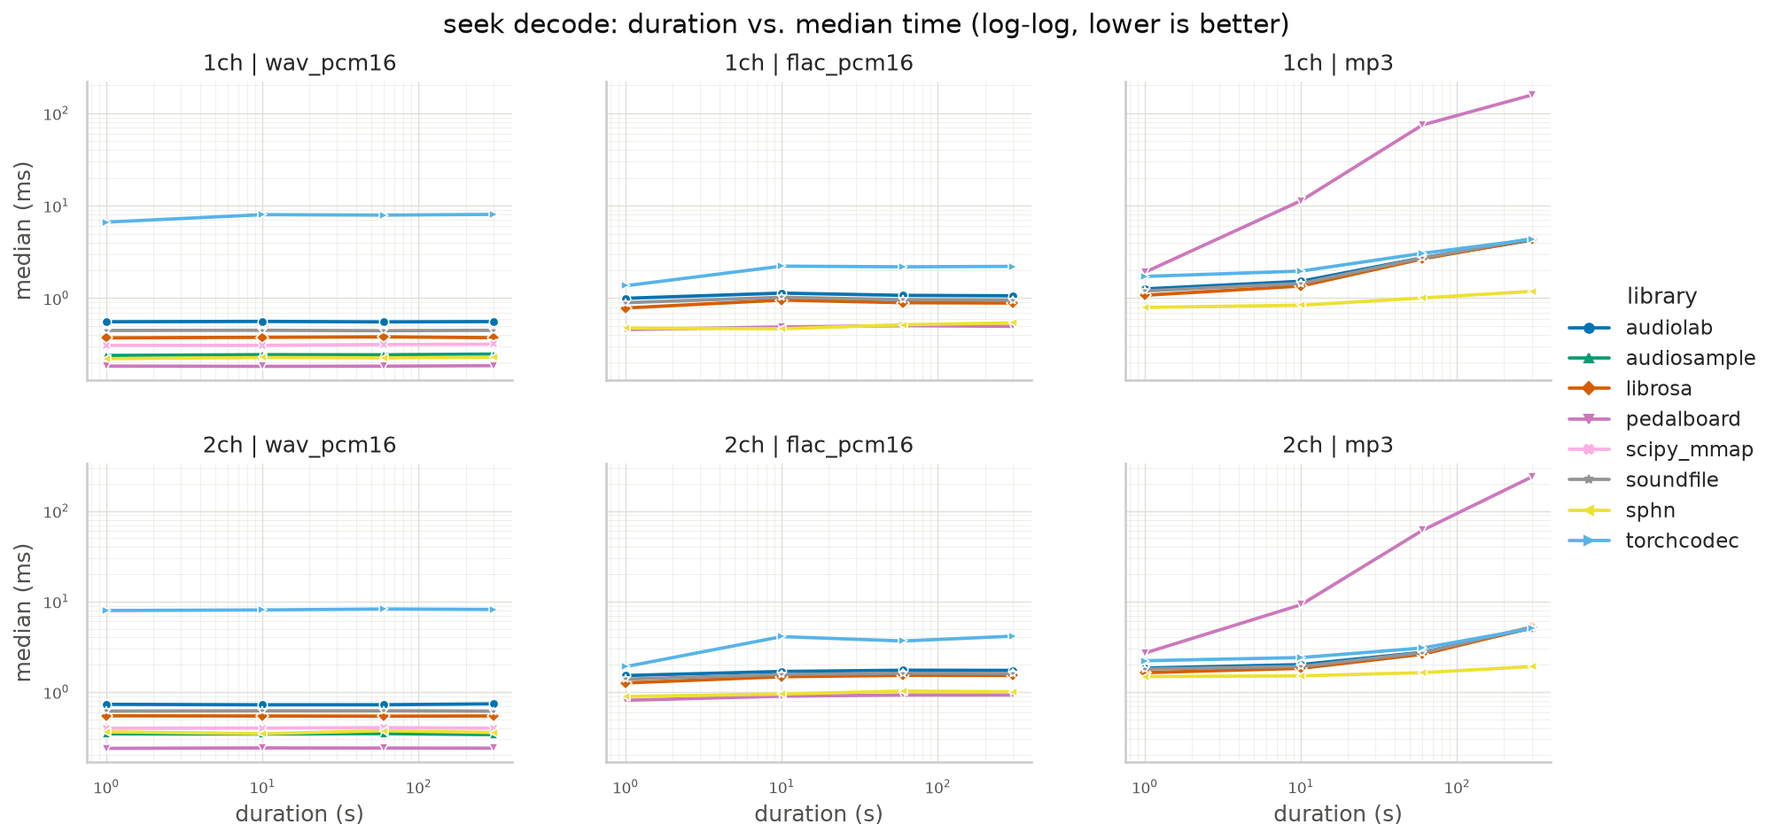
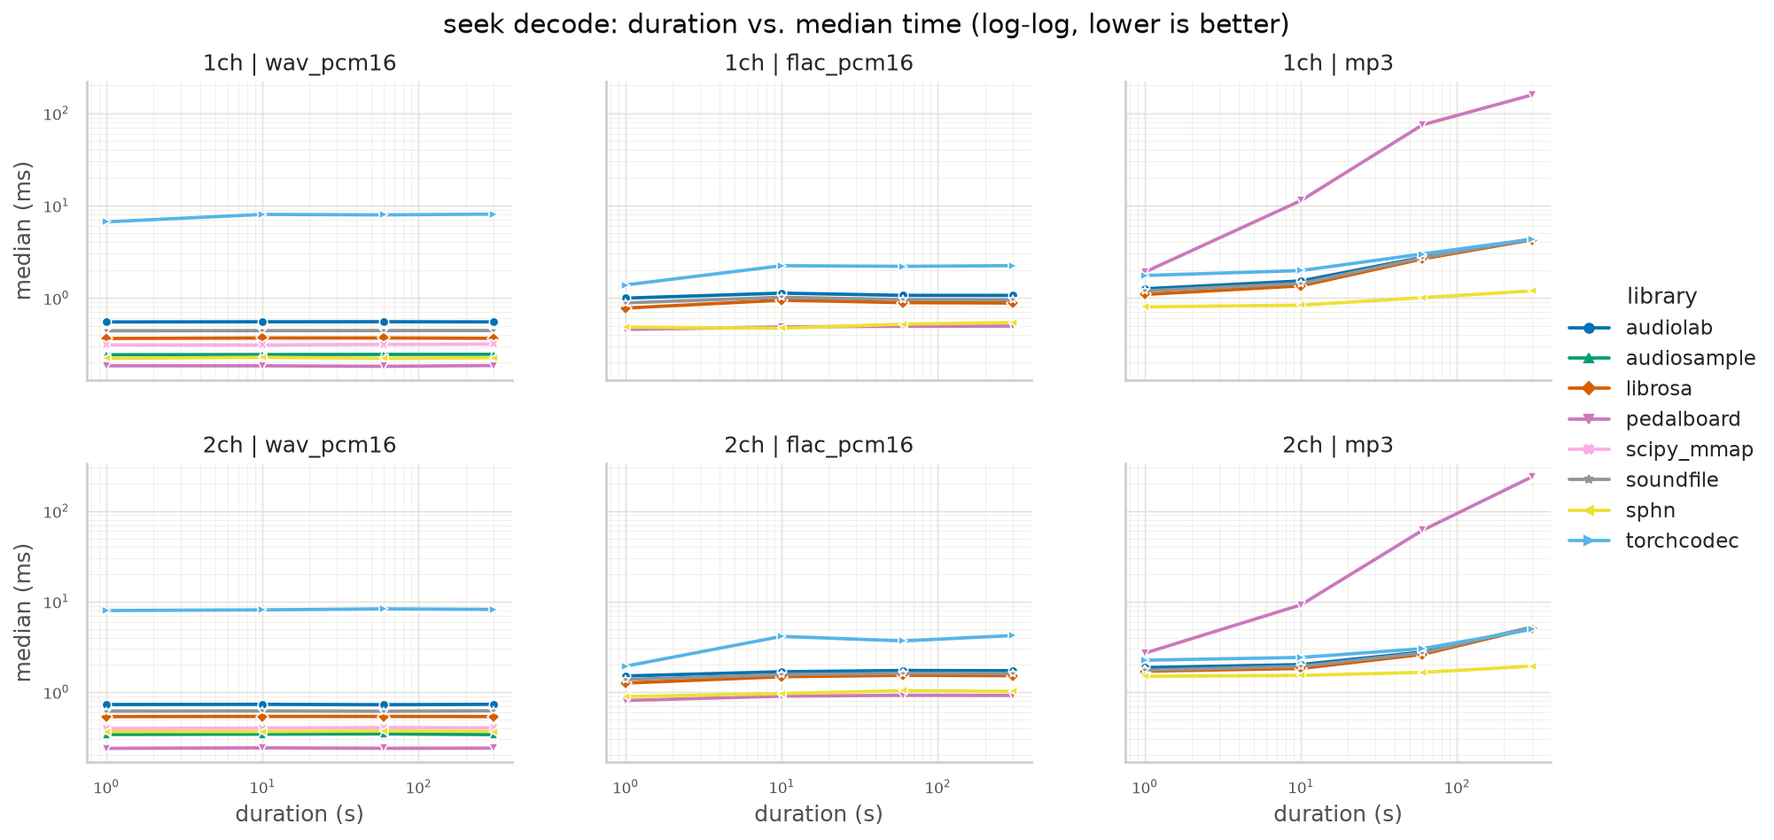
updated plots

diff --git a/results/report.md b/results/report.md
@@ -34,79 +34,79 @@ Timings below are wall-clock, warm-page-cache decodes of a locally generated **s
 
 | Duration (s) | Channels | soundfile | librosa | scipy | scipy_mmap | audioread | pedalboard | torchcodec | audiolab | audiosample | sphn |
 | --- | --- | --- | --- | --- | --- | --- | --- | --- | --- | --- | --- |
-| 1 | 1 | 0.37 ms [0.36–0.41] | 0.37 ms [0.36–0.38] | 0.23 ms [0.23–0.25] | 0.30 ms [0.29–0.32] | 0.40 ms [0.38–0.41] | 0.18 ms [0.18–0.20] | 6.67 ms [6.62–6.84] | 0.58 ms [0.57–0.60] | 0.22 ms [0.22–0.23] | 0.24 ms [0.24–0.25] |
-| 1 | 2 | 0.55 ms [0.53–0.72] | 0.54 ms [0.53–0.55] | 0.33 ms [0.32–0.34] | 0.39 ms [0.38–0.40] | 0.54 ms [0.52–0.58] | 0.23 ms [0.23–0.24] | 7.91 ms [7.80–8.05] | 0.76 ms [0.72–0.79] | 0.32 ms [0.32–0.33] | 0.39 ms [0.38–0.40] |
-| 10 | 1 | 1.43 ms [1.39–1.47] | 1.44 ms [1.40–1.46] | 0.77 ms [0.76–0.81] | 0.78 ms [0.76–0.83] | 2.15 ms [2.12–2.21] | 0.65 ms [0.64–0.67] | 9.62 ms [9.52–9.72] | 2.05 ms [2.01–2.10] | 0.62 ms [0.61–0.64] | 1.66 ms [1.65–1.68] |
-| 10 | 2 | 3.29 ms [3.27–3.36] | 3.31 ms [3.21–3.36] | 1.76 ms [1.75–1.82] | 1.77 ms [1.75–1.82] | 3.73 ms [3.71–3.76] | 1.25 ms [1.24–1.28] | 11.24 ms [11.15–11.41] | 3.80 ms [3.75–3.87] | 1.58 ms [1.57–1.61] | 3.00 ms [2.99–3.10] |
-| 60 | 1 | 7.21 ms [7.14–7.29] | 7.27 ms [7.15–7.38] | 3.76 ms [3.68–3.87] | 3.66 ms [3.64–3.76] | 12.05 ms [11.97–12.12] | 3.44 ms [3.43–3.56] | 18.26 ms [18.05–18.49] | 9.59 ms [9.53–9.70] | 2.90 ms [2.89–2.95] | 9.51 ms [9.48–9.54] |
-| 60 | 2 | 18.93 ms [18.82–19.11] | 19.07 ms [18.86–19.25] | 10.96 ms [10.74–11.06] | 10.76 ms [10.46–10.82] | 22.28 ms [22.21–22.35] | 7.03 ms [6.92–7.27] | 29.04 ms [28.85–29.98] | 19.61 ms [19.44–19.75] | 8.88 ms [8.85–8.93] | 19.37 ms [19.26–19.49] |
-| 300 | 1 | 43.79 ms [43.36–44.18] | 42.94 ms [42.81–43.22] | 31.73 ms [31.67–31.86] | 28.15 ms [28.10–28.30] | 72.79 ms [72.50–73.16] | 24.62 ms [24.13–24.82] | 86.97 ms [78.33–100.90] | 53.61 ms [52.81–53.91] | 20.40 ms [19.93–20.66] | 78.93 ms [78.67–79.12] |
-| 300 | 2 | 125.49 ms [125.12–125.78] | 125.29 ms [124.78–125.97] | 108.14 ms [107.82–108.62] | 95.08 ms [94.88–97.00] | 168.24 ms [167.83–169.30] | 51.45 ms [51.32–51.58] | 154.27 ms [149.14–166.33] | 111.29 ms [110.72–111.67] | 98.58 ms [98.21–98.87] | 150.91 ms [150.53–151.27] |
+| 1 | 1 | 0.37 ms [0.35–0.61] | 0.36 ms [0.36–0.41] | 0.23 ms [0.22–0.26] | 0.30 ms [0.30–0.36] | 0.39 ms [0.38–0.39] | 0.18 ms [0.18–0.21] | 6.69 ms [6.59–6.77] | 0.57 ms [0.56–0.60] | 0.23 ms [0.22–0.23] | 0.25 ms [0.24–0.26] |
+| 1 | 2 | 0.54 ms [0.52–0.77] | 0.53 ms [0.52–0.55] | 0.32 ms [0.32–0.36] | 0.39 ms [0.38–0.41] | 0.53 ms [0.51–0.57] | 0.23 ms [0.23–0.25] | 7.98 ms [7.82–8.15] | 0.76 ms [0.72–0.77] | 0.32 ms [0.31–0.34] | 0.39 ms [0.38–0.40] |
+| 10 | 1 | 1.42 ms [1.38–1.47] | 1.42 ms [1.39–1.46] | 0.75 ms [0.73–0.76] | 0.77 ms [0.75–0.80] | 2.16 ms [2.14–2.20] | 0.67 ms [0.66–0.68] | 9.61 ms [9.48–9.81] | 2.02 ms [1.98–2.09] | 0.62 ms [0.61–0.65] | 1.68 ms [1.67–1.72] |
+| 10 | 2 | 3.29 ms [3.23–3.39] | 3.26 ms [3.20–3.30] | 1.72 ms [1.70–1.78] | 1.78 ms [1.77–1.83] | 3.72 ms [3.69–4.64] | 1.23 ms [1.22–1.31] | 11.49 ms [11.39–11.70] | 3.76 ms [3.73–3.90] | 1.59 ms [1.57–1.65] | 2.95 ms [2.93–3.09] |
+| 60 | 1 | 7.19 ms [7.08–7.86] | 7.17 ms [7.07–7.22] | 3.74 ms [3.69–3.85] | 3.67 ms [3.61–3.70] | 12.12 ms [12.04–12.27] | 3.43 ms [3.41–3.56] | 18.58 ms [17.86–19.02] | 9.50 ms [9.36–9.76] | 2.87 ms [2.82–2.95] | 10.07 ms [10.01–10.22] |
+| 60 | 2 | 18.90 ms [18.72–19.14] | 18.99 ms [18.79–19.16] | 10.90 ms [10.70–11.16] | 10.78 ms [10.55–10.84] | 22.22 ms [21.94–22.37] | 7.04 ms [6.86–7.31] | 29.35 ms [29.04–29.72] | 19.63 ms [19.49–19.76] | 9.18 ms [9.13–9.23] | 19.37 ms [19.25–19.55] |
+| 300 | 1 | 43.88 ms [43.47–44.20] | 42.77 ms [42.53–43.27] | 31.63 ms [31.38–31.81] | 28.09 ms [28.02–28.28] | 72.80 ms [72.49–73.04] | 25.47 ms [25.06–25.63] | 83.58 ms [74.85–103.20] | 54.03 ms [53.30–54.82] | 20.41 ms [19.95–20.62] | 76.21 ms [76.06–77.44] |
+| 300 | 2 | 125.28 ms [124.31–125.92] | 124.82 ms [123.99–125.32] | 107.95 ms [107.76–108.23] | 94.93 ms [94.68–96.26] | 166.96 ms [166.40–167.47] | 51.51 ms [51.33–53.25] | 151.74 ms [149.88–175.05] | 111.42 ms [110.28–112.13] | 98.73 ms [98.42–99.24] | 145.31 ms [144.85–145.90] |
 
 ## wav_pcm16 / seek
 
 | Duration (s) | Channels | soundfile | librosa | scipy | scipy_mmap | audioread | pedalboard | torchcodec | audiolab | audiosample | sphn |
 | --- | --- | --- | --- | --- | --- | --- | --- | --- | --- | --- | --- |
-| 1 | 1 | 0.45 ms [0.43–0.56] | 0.37 ms [0.35–0.39] | unsupported | 0.31 ms [0.30–0.31] | unsupported | 0.18 ms [0.18–0.19] | 6.65 ms [6.52–6.74] | 0.56 ms [0.54–0.57] | 0.24 ms [0.24–0.24] | 0.22 ms [0.22–0.23] |
-| 1 | 2 | 0.61 ms [0.60–0.64] | 0.54 ms [0.54–0.56] | unsupported | 0.40 ms [0.39–0.42] | unsupported | 0.24 ms [0.23–0.25] | 7.95 ms [7.85–8.14] | 0.73 ms [0.72–0.77] | 0.34 ms [0.33–0.35] | 0.36 ms [0.35–0.41] |
-| 10 | 1 | 0.45 ms [0.43–0.54] | 0.38 ms [0.36–0.38] | unsupported | 0.31 ms [0.31–0.33] | unsupported | 0.18 ms [0.18–0.19] | 8.00 ms [7.87–8.12] | 0.56 ms [0.55–0.58] | 0.24 ms [0.24–0.25] | 0.23 ms [0.23–0.24] |
-| 10 | 2 | 0.62 ms [0.60–0.64] | 0.54 ms [0.53–0.56] | unsupported | 0.40 ms [0.38–0.42] | unsupported | 0.24 ms [0.24–0.25] | 8.07 ms [7.97–8.16] | 0.72 ms [0.71–0.74] | 0.34 ms [0.33–0.35] | 0.35 ms [0.34–0.35] |
-| 60 | 1 | 0.44 ms [0.44–0.59] | 0.38 ms [0.36–0.39] | unsupported | 0.32 ms [0.30–0.33] | unsupported | 0.18 ms [0.18–0.19] | 7.91 ms [7.81–8.03] | 0.55 ms [0.55–0.56] | 0.24 ms [0.24–0.25] | 0.23 ms [0.22–0.23] |
-| 60 | 2 | 0.62 ms [0.59–0.63] | 0.54 ms [0.53–0.55] | unsupported | 0.40 ms [0.39–0.41] | unsupported | 0.24 ms [0.24–0.25] | 8.26 ms [8.20–8.32] | 0.72 ms [0.70–0.76] | 0.35 ms [0.34–0.35] | 0.37 ms [0.36–0.44] |
-| 300 | 1 | 0.45 ms [0.44–0.47] | 0.37 ms [0.36–0.39] | unsupported | 0.32 ms [0.31–0.33] | unsupported | 0.19 ms [0.18–0.19] | 8.05 ms [7.99–8.11] | 0.56 ms [0.53–0.60] | 0.25 ms [0.25–0.27] | 0.23 ms [0.22–0.24] |
-| 300 | 2 | 0.61 ms [0.61–0.63] | 0.54 ms [0.54–0.56] | unsupported | 0.40 ms [0.39–0.42] | unsupported | 0.24 ms [0.23–0.24] | 8.17 ms [8.04–8.23] | 0.74 ms [0.70–0.75] | 0.34 ms [0.32–0.35] | 0.36 ms [0.35–0.36] |
+| 1 | 1 | 0.44 ms [0.43–0.58] | 0.36 ms [0.35–0.38] | unsupported | 0.31 ms [0.30–0.32] | unsupported | 0.18 ms [0.18–0.26] | 6.66 ms [6.58–6.78] | 0.55 ms [0.53–0.57] | 0.24 ms [0.24–0.26] | 0.22 ms [0.22–0.23] |
+| 1 | 2 | 0.62 ms [0.60–0.71] | 0.53 ms [0.52–0.55] | unsupported | 0.39 ms [0.38–0.41] | unsupported | 0.24 ms [0.23–0.24] | 7.95 ms [7.73–8.05] | 0.73 ms [0.71–0.77] | 0.34 ms [0.33–0.35] | 0.36 ms [0.35–0.37] |
+| 10 | 1 | 0.44 ms [0.43–0.57] | 0.37 ms [0.36–0.38] | unsupported | 0.31 ms [0.30–0.33] | unsupported | 0.18 ms [0.18–0.19] | 8.02 ms [7.88–8.14] | 0.55 ms [0.53–0.57] | 0.24 ms [0.24–0.26] | 0.23 ms [0.22–0.24] |
+| 10 | 2 | 0.62 ms [0.60–0.70] | 0.54 ms [0.52–0.56] | unsupported | 0.40 ms [0.38–0.42] | unsupported | 0.24 ms [0.24–0.25] | 8.09 ms [7.98–8.16] | 0.73 ms [0.69–0.76] | 0.34 ms [0.34–0.35] | 0.37 ms [0.36–0.37] |
+| 60 | 1 | 0.44 ms [0.42–0.45] | 0.37 ms [0.36–0.38] | unsupported | 0.31 ms [0.30–0.34] | unsupported | 0.18 ms [0.18–0.19] | 7.93 ms [7.76–8.11] | 0.55 ms [0.54–0.58] | 0.24 ms [0.24–0.26] | 0.22 ms [0.22–0.23] |
+| 60 | 2 | 0.61 ms [0.59–0.68] | 0.54 ms [0.52–0.56] | unsupported | 0.40 ms [0.40–0.41] | unsupported | 0.24 ms [0.23–0.24] | 8.30 ms [8.14–8.34] | 0.72 ms [0.70–0.75] | 0.34 ms [0.34–0.47] | 0.37 ms [0.37–0.40] |
+| 300 | 1 | 0.44 ms [0.43–0.47] | 0.37 ms [0.35–0.38] | unsupported | 0.32 ms [0.31–0.41] | unsupported | 0.19 ms [0.18–0.19] | 8.07 ms [7.98–8.14] | 0.55 ms [0.53–0.57] | 0.25 ms [0.24–0.26] | 0.23 ms [0.22–0.23] |
+| 300 | 2 | 0.62 ms [0.60–0.63] | 0.54 ms [0.52–0.55] | unsupported | 0.40 ms [0.38–0.42] | unsupported | 0.24 ms [0.23–0.25] | 8.19 ms [8.09–11.20] | 0.73 ms [0.70–0.75] | 0.34 ms [0.33–0.35] | 0.37 ms [0.36–0.42] |
 
 ## flac_pcm16 / full
 
 | Duration (s) | Channels | soundfile | librosa | scipy | scipy_mmap | audioread | pedalboard | torchcodec | audiolab | audiosample | sphn |
 | --- | --- | --- | --- | --- | --- | --- | --- | --- | --- | --- | --- |
-| 1 | 1 | 0.81 ms [0.81–0.84] | 0.78 ms [0.77–0.79] | unsupported | unsupported | 18.02 ms [17.12–18.80] | 0.45 ms [0.45–0.46] | 1.39 ms [1.35–1.41] | 1.03 ms [1.02–1.04] | unsupported | 0.50 ms [0.49–0.51] |
-| 1 | 2 | 1.31 ms [1.30–1.60] | 1.26 ms [1.25–1.27] | unsupported | unsupported | 18.50 ms [17.86–19.70] | 0.80 ms [0.79–0.81] | 1.92 ms [1.87–1.93] | 1.55 ms [1.51–1.56] | unsupported | 0.92 ms [0.90–0.92] |
-| 10 | 1 | 5.36 ms [5.33–5.41] | 5.36 ms [5.33–5.40] | unsupported | unsupported | 21.54 ms [20.66–22.48] | 3.31 ms [3.27–3.36] | 7.04 ms [7.02–7.11] | 6.06 ms [6.03–6.09] | unsupported | 3.86 ms [3.84–3.88] |
-| 10 | 2 | 10.52 ms [10.47–10.79] | 10.45 ms [10.42–10.51] | unsupported | unsupported | 25.75 ms [24.49–26.48] | 6.89 ms [6.87–7.01] | 12.09 ms [12.05–12.17] | 11.09 ms [11.07–11.11] | unsupported | 7.68 ms [7.67–7.88] |
-| 60 | 1 | 30.72 ms [30.66–30.98] | 30.73 ms [30.64–31.02] | unsupported | unsupported | 34.82 ms [33.19–37.59] | 19.39 ms [19.30–19.50] | 37.67 ms [37.54–37.86] | 33.43 ms [33.28–33.50] | unsupported | 22.41 ms [22.36–22.50] |
-| 60 | 2 | 62.08 ms [61.94–62.21] | 62.04 ms [61.89–62.28] | unsupported | unsupported | 51.00 ms [49.76–52.40] | 40.82 ms [40.63–41.10] | 67.39 ms [67.28–67.69] | 63.23 ms [63.16–63.49] | unsupported | 47.25 ms [47.21–47.37] |
-| 300 | 1 | 161.29 ms [160.01–161.59] | 160.71 ms [159.83–161.84] | unsupported | unsupported | 109.47 ms [107.12–110.97] | 104.69 ms [104.43–105.07] | 197.89 ms [197.21–198.05] | 172.76 ms [172.60–173.32] | unsupported | 144.83 ms [144.76–145.35] |
-| 300 | 2 | 340.71 ms [340.22–341.04] | 340.72 ms [340.24–341.14] | unsupported | unsupported | 230.96 ms [228.12–233.29] | 221.15 ms [220.64–221.62] | 364.86 ms [364.24–365.40] | 328.66 ms [328.45–329.13] | unsupported | 291.70 ms [291.45–292.51] |
+| 1 | 1 | 0.81 ms [0.80–0.84] | 0.78 ms [0.76–0.87] | unsupported | unsupported | 17.84 ms [16.87–19.23] | 0.45 ms [0.44–0.46] | 1.40 ms [1.36–1.44] | 1.02 ms [1.00–1.05] | unsupported | 0.50 ms [0.49–0.52] |
+| 1 | 2 | 1.30 ms [1.29–1.59] | 1.26 ms [1.25–1.32] | unsupported | unsupported | 18.50 ms [17.59–19.42] | 0.80 ms [0.79–0.81] | 1.95 ms [1.89–2.02] | 1.53 ms [1.50–1.60] | unsupported | 0.92 ms [0.90–0.96] |
+| 10 | 1 | 5.38 ms [5.34–5.46] | 5.35 ms [5.32–5.46] | unsupported | unsupported | 21.49 ms [20.30–22.77] | 3.28 ms [3.26–3.33] | 6.94 ms [6.91–7.07] | 6.08 ms [6.04–6.14] | unsupported | 3.82 ms [3.79–3.85] |
+| 10 | 2 | 10.52 ms [10.49–10.59] | 10.47 ms [10.42–10.57] | unsupported | unsupported | 24.92 ms [23.93–26.13] | 6.87 ms [6.83–6.92] | 12.07 ms [12.03–12.23] | 11.06 ms [11.04–11.19] | unsupported | 7.73 ms [7.70–7.81] |
+| 60 | 1 | 30.86 ms [30.77–31.38] | 30.80 ms [30.64–30.96] | unsupported | unsupported | 34.64 ms [33.35–36.20] | 19.27 ms [19.18–19.43] | 38.10 ms [37.50–38.30] | 33.37 ms [33.33–33.53] | unsupported | 23.02 ms [22.96–23.13] |
+| 60 | 2 | 62.15 ms [62.03–62.24] | 62.21 ms [62.02–62.48] | unsupported | unsupported | 51.01 ms [49.48–53.10] | 40.95 ms [40.74–41.18] | 67.47 ms [67.00–67.62] | 63.18 ms [63.06–63.71] | unsupported | 47.47 ms [47.30–47.67] |
+| 300 | 1 | 161.16 ms [160.87–161.67] | 160.99 ms [160.58–161.34] | unsupported | unsupported | 109.77 ms [107.82–111.63] | 104.67 ms [104.29–105.21] | 211.47 ms [200.01–223.55] | 174.26 ms [173.81–174.49] | unsupported | 146.00 ms [145.80–146.54] |
+| 300 | 2 | 339.98 ms [339.46–340.36] | 340.98 ms [340.67–342.94] | unsupported | unsupported | 228.05 ms [226.11–234.70] | 221.33 ms [220.61–222.75] | 390.50 ms [389.34–393.92] | 329.03 ms [328.75–329.48] | unsupported | 289.95 ms [289.36–292.53] |
 
 ## flac_pcm16 / seek
 
 | Duration (s) | Channels | soundfile | librosa | scipy | scipy_mmap | audioread | pedalboard | torchcodec | audiolab | audiosample | sphn |
 | --- | --- | --- | --- | --- | --- | --- | --- | --- | --- | --- | --- |
-| 1 | 1 | 0.89 ms [0.88–0.92] | 0.78 ms [0.77–0.88] | unsupported | unsupported | unsupported | 0.46 ms [0.45–0.46] | 1.36 ms [1.35–1.47] | 1.00 ms [0.97–1.01] | unsupported | 0.47 ms [0.47–0.49] |
-| 1 | 2 | 1.39 ms [1.36–1.50] | 1.26 ms [1.24–1.26] | unsupported | unsupported | unsupported | 0.81 ms [0.80–0.82] | 1.90 ms [1.86–1.93] | 1.52 ms [1.49–1.53] | unsupported | 0.89 ms [0.88–0.90] |
-| 10 | 1 | 1.02 ms [1.01–1.03] | 0.95 ms [0.94–0.96] | unsupported | unsupported | unsupported | 0.49 ms [0.48–0.50] | 2.22 ms [2.18–2.23] | 1.13 ms [1.11–1.14] | unsupported | 0.47 ms [0.46–0.47] |
-| 10 | 2 | 1.56 ms [1.55–1.58] | 1.47 ms [1.47–1.49] | unsupported | unsupported | unsupported | 0.90 ms [0.88–0.90] | 4.09 ms [4.04–4.12] | 1.69 ms [1.65–1.71] | unsupported | 0.95 ms [0.95–0.96] |
-| 60 | 1 | 0.96 ms [0.95–0.99] | 0.89 ms [0.88–0.90] | unsupported | unsupported | unsupported | 0.50 ms [0.50–0.54] | 2.18 ms [2.13–2.20] | 1.07 ms [1.07–1.09] | unsupported | 0.52 ms [0.51–0.53] |
-| 60 | 2 | 1.61 ms [1.58–1.62] | 1.53 ms [1.51–1.55] | unsupported | unsupported | unsupported | 0.93 ms [0.91–0.94] | 3.66 ms [3.60–3.70] | 1.74 ms [1.69–1.75] | unsupported | 1.02 ms [1.01–1.04] |
-| 300 | 1 | 0.95 ms [0.94–0.98] | 0.88 ms [0.88–0.90] | unsupported | unsupported | unsupported | 0.50 ms [0.49–0.50] | 2.21 ms [2.16–2.25] | 1.06 ms [1.04–1.09] | unsupported | 0.54 ms [0.53–0.57] |
-| 300 | 2 | 1.60 ms [1.60–1.64] | 1.52 ms [1.50–1.53] | unsupported | unsupported | unsupported | 0.93 ms [0.92–0.94] | 4.14 ms [4.12–4.16] | 1.73 ms [1.69–1.74] | unsupported | 1.01 ms [1.00–1.02] |
+| 1 | 1 | 0.88 ms [0.87–0.98] | 0.78 ms [0.76–0.79] | unsupported | unsupported | unsupported | 0.46 ms [0.45–0.46] | 1.38 ms [1.34–1.42] | 0.99 ms [0.97–1.02] | unsupported | 0.48 ms [0.47–0.49] |
+| 1 | 2 | 1.38 ms [1.37–1.47] | 1.26 ms [1.24–1.26] | unsupported | unsupported | unsupported | 0.81 ms [0.80–0.83] | 1.93 ms [1.91–1.97] | 1.50 ms [1.47–1.53] | unsupported | 0.89 ms [0.89–0.91] |
+| 10 | 1 | 1.02 ms [1.01–1.03] | 0.95 ms [0.93–0.96] | unsupported | unsupported | unsupported | 0.49 ms [0.48–0.50] | 2.23 ms [2.18–2.28] | 1.13 ms [1.11–1.19] | unsupported | 0.47 ms [0.46–0.55] |
+| 10 | 2 | 1.56 ms [1.53–1.57] | 1.48 ms [1.45–1.49] | unsupported | unsupported | unsupported | 0.90 ms [0.89–0.99] | 4.12 ms [4.08–4.16] | 1.68 ms [1.63–1.75] | unsupported | 0.96 ms [0.95–0.97] |
+| 60 | 1 | 0.96 ms [0.95–0.97] | 0.89 ms [0.87–0.89] | unsupported | unsupported | unsupported | 0.49 ms [0.49–0.51] | 2.20 ms [2.13–2.23] | 1.07 ms [1.04–1.10] | unsupported | 0.52 ms [0.51–0.58] |
+| 60 | 2 | 1.61 ms [1.59–1.67] | 1.53 ms [1.51–1.54] | unsupported | unsupported | unsupported | 0.92 ms [0.91–0.94] | 3.67 ms [3.60–3.73] | 1.73 ms [1.68–1.76] | unsupported | 1.04 ms [1.03–1.07] |
+| 300 | 1 | 0.95 ms [0.95–0.98] | 0.88 ms [0.87–0.89] | unsupported | unsupported | unsupported | 0.49 ms [0.48–0.50] | 2.23 ms [2.18–2.29] | 1.07 ms [1.02–1.10] | unsupported | 0.54 ms [0.53–0.59] |
+| 300 | 2 | 1.60 ms [1.58–1.61] | 1.52 ms [1.51–1.53] | unsupported | unsupported | unsupported | 0.92 ms [0.91–0.94] | 4.21 ms [4.17–4.29] | 1.72 ms [1.67–1.74] | unsupported | 1.02 ms [1.01–1.29] |
 
 ## mp3 / full
 
 | Duration (s) | Channels | soundfile | librosa | scipy | scipy_mmap | audioread | pedalboard | torchcodec | audiolab | audiosample | sphn |
 | --- | --- | --- | --- | --- | --- | --- | --- | --- | --- | --- | --- |
-| 1 | 1 | 1.11 ms [1.08–1.17] | 1.07 ms [1.07–1.09] | unsupported | unsupported | 18.65 ms [17.41–19.00] | 1.93 ms [1.90–1.95] | 1.76 ms [1.75–1.79] | 1.29 ms [1.27–1.57] | unsupported | 0.83 ms [0.82–0.85] |
-| 1 | 2 | 1.71 ms [1.65–1.71] | 1.65 ms [1.63–1.68] | unsupported | unsupported | 18.33 ms [17.51–19.35] | 2.73 ms [2.70–2.74] | 2.25 ms [2.21–2.28] | 1.87 ms [1.85–1.90] | unsupported | 1.52 ms [1.52–1.53] |
-| 10 | 1 | 7.89 ms [7.86–7.99] | 7.89 ms [7.87–7.93] | unsupported | unsupported | 26.95 ms [25.97–28.42] | 17.35 ms [17.20–17.45] | 8.99 ms [8.95–9.06] | 8.94 ms [8.92–9.04] | unsupported | 6.88 ms [6.85–6.98] |
-| 10 | 2 | 13.39 ms [13.37–13.54] | 13.40 ms [13.37–13.61] | unsupported | unsupported | 32.31 ms [30.84–32.71] | 24.92 ms [24.82–25.02] | 13.24 ms [13.20–14.48] | 14.71 ms [14.68–14.76] | unsupported | 13.53 ms [13.48–13.74] |
-| 60 | 1 | 45.73 ms [45.60–45.96] | 45.67 ms [45.49–45.76] | unsupported | unsupported | 72.06 ms [70.70–72.61] | 103.24 ms [103.10–103.48] | 49.01 ms [48.90–49.17] | 50.92 ms [50.87–50.97] | unsupported | 40.13 ms [40.04–40.28] |
-| 60 | 2 | 79.22 ms [78.99–79.53] | 79.36 ms [79.06–79.58] | unsupported | unsupported | 104.64 ms [103.13–104.91] | 148.27 ms [147.72–148.76] | 74.37 ms [74.20–74.60] | 84.77 ms [84.69–84.84] | unsupported | 81.88 ms [81.77–82.01] |
-| 300 | 1 | 232.99 ms [232.87–233.62] | 233.72 ms [233.29–234.29] | unsupported | unsupported | 290.92 ms [288.32–293.63] | 523.47 ms [522.73–524.69] | 253.09 ms [252.96–253.50] | 260.21 ms [259.81–260.49] | unsupported | 233.49 ms [233.19–233.72] |
-| 300 | 2 | 422.50 ms [422.09–422.68] | 422.33 ms [422.02–422.78] | unsupported | unsupported | 498.98 ms [495.49–502.48] | 752.33 ms [751.73–752.98] | 398.54 ms [397.73–399.14] | 436.92 ms [436.46–437.40] | unsupported | 465.29 ms [464.65–466.73] |
+| 1 | 1 | 1.10 ms [1.07–1.22] | 1.08 ms [1.06–1.11] | unsupported | unsupported | 17.68 ms [16.77–19.86] | 1.92 ms [1.90–1.94] | 1.78 ms [1.72–1.82] | 1.28 ms [1.26–1.29] | unsupported | 0.83 ms [0.82–0.85] |
+| 1 | 2 | 1.65 ms [1.62–1.68] | 1.70 ms [1.66–1.71] | unsupported | unsupported | 18.78 ms [17.11–19.81] | 2.73 ms [2.70–2.76] | 2.26 ms [2.21–2.35] | 1.89 ms [1.84–1.94] | unsupported | 1.54 ms [1.52–1.62] |
+| 10 | 1 | 7.86 ms [7.85–7.93] | 7.88 ms [7.83–7.96] | unsupported | unsupported | 26.72 ms [25.59–27.86] | 17.34 ms [17.28–17.55] | 9.06 ms [9.02–9.16] | 8.94 ms [8.91–9.00] | unsupported | 6.94 ms [6.87–7.02] |
+| 10 | 2 | 13.43 ms [13.36–13.54] | 13.42 ms [13.38–13.55] | unsupported | unsupported | 31.78 ms [30.53–33.00] | 24.84 ms [24.77–25.13] | 13.30 ms [13.25–13.40] | 14.72 ms [14.65–14.90] | unsupported | 13.51 ms [13.47–16.59] |
+| 60 | 1 | 45.66 ms [45.48–45.89] | 45.78 ms [45.55–46.05] | unsupported | unsupported | 72.03 ms [70.71–72.88] | 103.33 ms [102.98–103.72] | 49.19 ms [49.08–49.70] | 50.71 ms [50.63–50.92] | unsupported | 40.79 ms [40.58–40.96] |
+| 60 | 2 | 79.21 ms [79.05–79.46] | 79.38 ms [79.15–79.56] | unsupported | unsupported | 103.28 ms [102.54–104.46] | 148.37 ms [148.05–148.66] | 74.50 ms [74.35–74.76] | 84.83 ms [84.65–84.98] | unsupported | 82.07 ms [81.92–82.17] |
+| 300 | 1 | 232.24 ms [231.83–232.54] | 231.79 ms [231.58–232.16] | unsupported | unsupported | 293.72 ms [291.97–298.26] | 523.05 ms [522.02–523.65] | 253.61 ms [252.97–254.80] | 260.89 ms [260.41–261.33] | unsupported | 233.37 ms [232.74–234.37] |
+| 300 | 2 | 422.66 ms [422.27–423.37] | 422.65 ms [422.07–423.48] | unsupported | unsupported | 500.88 ms [497.14–505.41] | 753.00 ms [752.04–754.00] | 401.56 ms [399.60–404.14] | 438.00 ms [437.75–438.24] | unsupported | 462.85 ms [462.56–464.25] |
 
 ## mp3 / seek
 
 | Duration (s) | Channels | soundfile | librosa | scipy | scipy_mmap | audioread | pedalboard | torchcodec | audiolab | audiosample | sphn |
 | --- | --- | --- | --- | --- | --- | --- | --- | --- | --- | --- | --- |
-| 1 | 1 | 1.20 ms [1.18–1.21] | 1.07 ms [1.07–1.12] | unsupported | unsupported | unsupported | 1.90 ms [1.88–1.97] | 1.72 ms [1.69–1.75] | 1.26 ms [1.24–1.28] | unsupported | 0.79 ms [0.79–0.83] |
-| 1 | 2 | 1.79 ms [1.77–2.07] | 1.64 ms [1.62–1.66] | unsupported | unsupported | unsupported | 2.69 ms [2.67–2.76] | 2.21 ms [2.17–2.24] | 1.84 ms [1.81–1.85] | unsupported | 1.48 ms [1.47–1.50] |
-| 10 | 1 | 1.44 ms [1.42–1.51] | 1.35 ms [1.34–1.36] | unsupported | unsupported | unsupported | 11.31 ms [11.28–11.48] | 1.96 ms [1.90–1.99] | 1.52 ms [1.50–1.54] | unsupported | 0.84 ms [0.82–0.91] |
-| 10 | 2 | 1.91 ms [1.90–1.93] | 1.83 ms [1.80–1.85] | unsupported | unsupported | unsupported | 9.21 ms [9.15–9.23] | 2.40 ms [2.38–2.42] | 2.01 ms [1.99–2.04] | unsupported | 1.51 ms [1.48–1.56] |
-| 60 | 1 | 2.72 ms [2.70–2.74] | 2.66 ms [2.64–2.69] | unsupported | unsupported | unsupported | 74.73 ms [74.58–74.97] | 3.06 ms [2.98–3.09] | 2.73 ms [2.70–2.80] | unsupported | 1.01 ms [0.99–1.03] |
-| 60 | 2 | 2.72 ms [2.68–2.79] | 2.61 ms [2.59–2.63] | unsupported | unsupported | unsupported | 61.24 ms [61.02–61.40] | 3.06 ms [2.97–3.17] | 2.74 ms [2.72–2.78] | unsupported | 1.64 ms [1.63–1.65] |
-| 300 | 1 | 4.40 ms [4.38–4.45] | 4.29 ms [4.24–4.32] | unsupported | unsupported | unsupported | 157.52 ms [157.22–157.83] | 4.32 ms [4.25–4.45] | 4.25 ms [4.18–4.36] | unsupported | 1.18 ms [1.18–1.21] |
-| 300 | 2 | 5.22 ms [5.20–5.23] | 5.12 ms [5.10–5.14] | unsupported | unsupported | unsupported | 237.59 ms [236.92–237.88] | 5.02 ms [4.95–5.13] | 5.08 ms [5.01–5.10] | unsupported | 1.91 ms [1.90–1.98] |
+| 1 | 1 | 1.19 ms [1.18–1.28] | 1.09 ms [1.06–1.12] | unsupported | unsupported | unsupported | 1.90 ms [1.88–1.92] | 1.75 ms [1.71–1.79] | 1.25 ms [1.25–1.28] | unsupported | 0.80 ms [0.78–0.81] |
+| 1 | 2 | 1.74 ms [1.71–2.01] | 1.70 ms [1.67–1.73] | unsupported | unsupported | unsupported | 2.69 ms [2.66–2.70] | 2.25 ms [2.20–2.29] | 1.86 ms [1.82–1.92] | unsupported | 1.49 ms [1.48–1.51] |
+| 10 | 1 | 1.43 ms [1.42–1.46] | 1.35 ms [1.34–1.40] | unsupported | unsupported | unsupported | 11.32 ms [11.24–11.43] | 1.98 ms [1.92–2.05] | 1.53 ms [1.51–1.55] | unsupported | 0.83 ms [0.83–0.85] |
+| 10 | 2 | 1.92 ms [1.89–1.98] | 1.82 ms [1.81–1.94] | unsupported | unsupported | unsupported | 9.19 ms [9.10–9.23] | 2.41 ms [2.34–2.49] | 2.01 ms [1.99–2.04] | unsupported | 1.53 ms [1.49–1.55] |
+| 60 | 1 | 2.72 ms [2.69–2.76] | 2.64 ms [2.59–2.66] | unsupported | unsupported | unsupported | 74.80 ms [74.53–74.99] | 2.99 ms [2.89–3.08] | 2.75 ms [2.72–2.78] | unsupported | 1.01 ms [0.99–1.08] |
+| 60 | 2 | 2.71 ms [2.68–2.81] | 2.61 ms [2.59–2.66] | unsupported | unsupported | unsupported | 61.32 ms [61.19–61.44] | 3.02 ms [2.92–3.05] | 2.76 ms [2.71–2.84] | unsupported | 1.65 ms [1.63–1.70] |
+| 300 | 1 | 4.34 ms [4.31–4.37] | 4.25 ms [4.24–4.30] | unsupported | unsupported | unsupported | 157.44 ms [157.15–158.03] | 4.31 ms [4.13–4.46] | 4.30 ms [4.22–4.39] | unsupported | 1.19 ms [1.17–1.21] |
+| 300 | 2 | 5.21 ms [5.18–5.38] | 5.09 ms [5.06–5.12] | unsupported | unsupported | unsupported | 237.79 ms [237.31–238.22] | 4.92 ms [4.84–5.19] | 5.14 ms [5.09–5.19] | unsupported | 1.93 ms [1.91–1.96] |
 
 ## Unavailable and incorrect libraries
 
@@ -114,4 +114,4 @@ Every probed library was available and passed the correctness gate.
 
 ## Measurement noise
 
-Across 352 `ok` measurements, the observed dispersion `IQR / median` ranges from 0.0% to 23.2%, with a median of 0.8%. That is the measurement-noise floor of this run: differences between libraries, formats, or durations smaller than this floor are noise, not rankings. The interquartile range is reported rather than max-min because the full range grows with the trial count, which would make runs using different `--repeat` values incomparable.
+Across 352 `ok` measurements, the observed dispersion `IQR / median` ranges from 0.0% to 19.1%, with a median of 0.9%. That is the measurement-noise floor of this run: differences between libraries, formats, or durations smaller than this floor are noise, not rankings. The interquartile range is reported rather than max-min because the full range grows with the trial count, which would make runs using different `--repeat` values incomparable.
